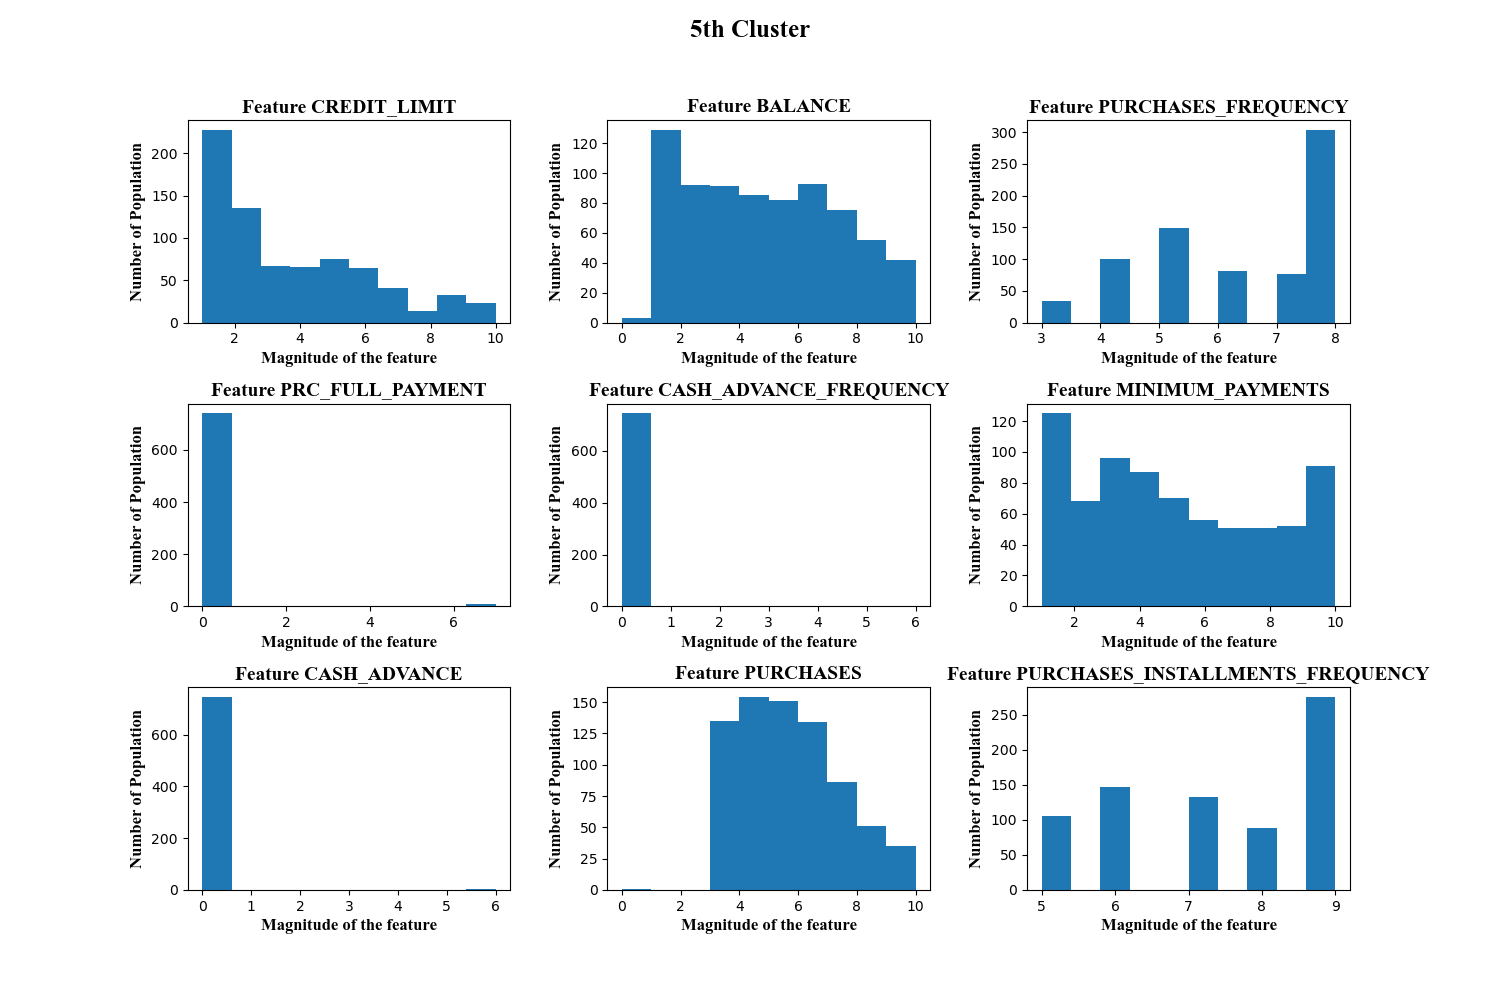
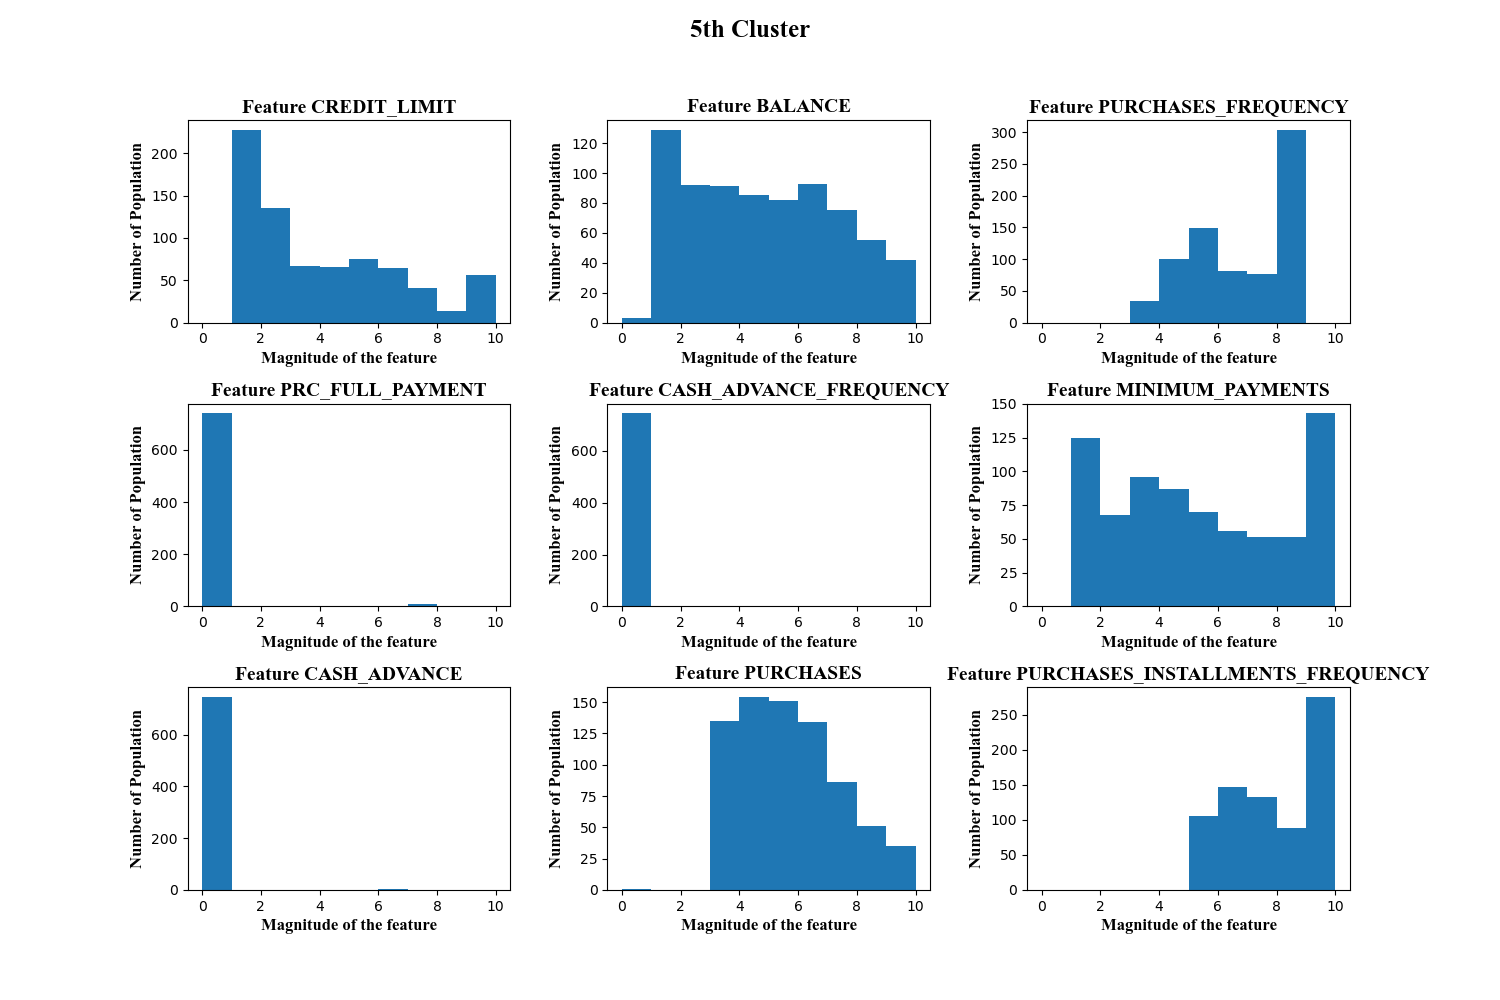
fixed hist scale

diff --git a/datatools.py b/datatools.py
@@ -578,7 +578,7 @@ def plot_individual_feature(X, labels, num_cluster, feature_list, feature_plot):
         axs = axs.ravel()
         for j in range(len(feature_plot)):
             feature_index = feature_list.index(feature_plot[j])
-            axs[j].hist(ith_cluster_member[:,feature_index], bins=10)
+            axs[j].hist(ith_cluster_member[:,feature_index], bins=10, range=[0, 10])
             axs[j].set_title('Feature {}'.format(feature_plot[j]), fontsize=14,
                       fontname="Times New Roman", fontweight='bold')
             axs[j].set_xlabel('Magnitude of the feature', fontsize=12,
